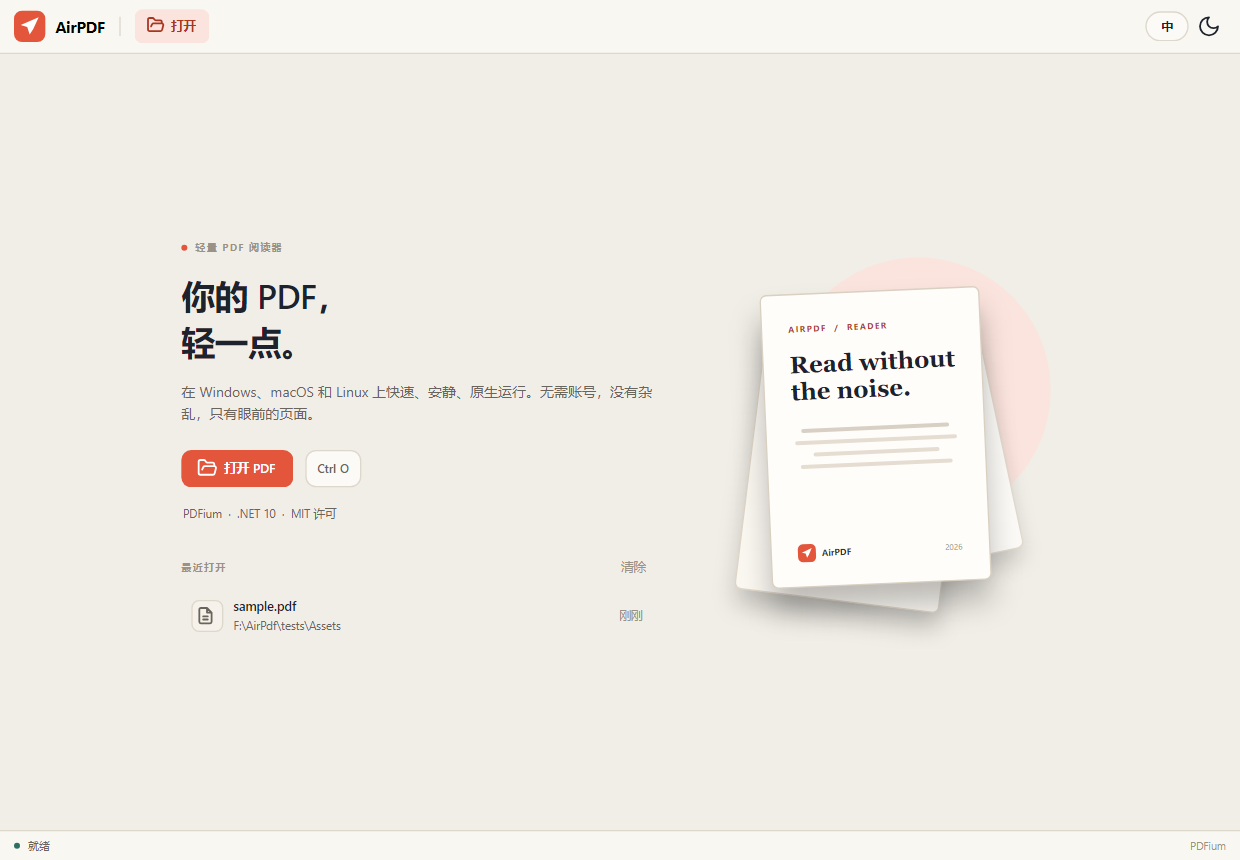
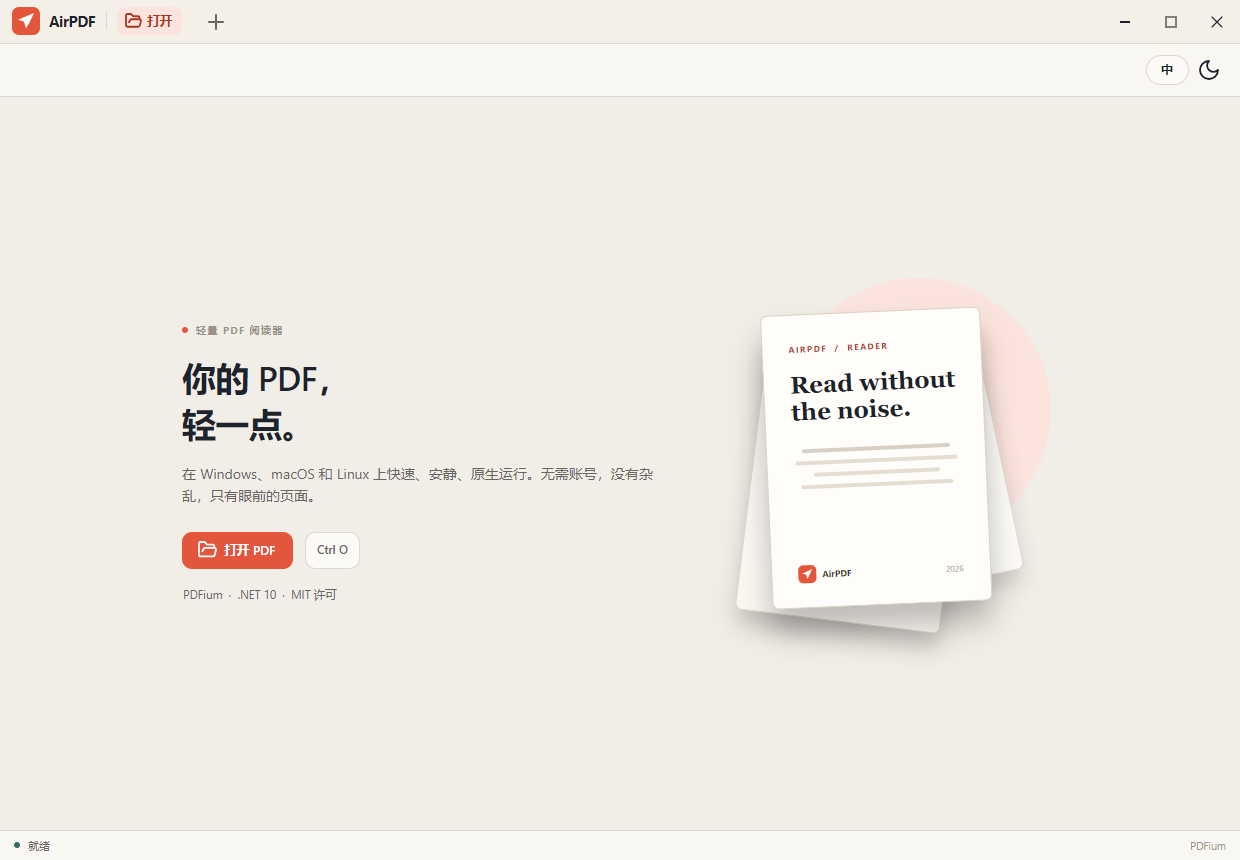
docs: refresh README for 0.6
- Document the unified Windows titlebar/tab bar, Snap Layouts, current tab semantics and overflow behavior.
- Clarify Store vs GitHub release availability and Velopack-only automatic updates.
- Update the test count, architecture notes, limitations and roadmap.
- Refresh the welcome, light/dark reading and search screenshots to the 0.6 UI.

diff --git a/README.md b/README.md
@@ -13,7 +13,9 @@
 </p>
 
 <p align="center">
-  <a href="https://apps.microsoft.com/detail/9pnsx3223qh1"><strong>Download for Windows from the Microsoft Store</strong></a>
+  <a href="https://apps.microsoft.com/detail/9pnsx3223qh1"><strong>Microsoft Store</strong></a>
+  &nbsp;·&nbsp;
+  <a href="https://github.com/RyzenWang/AirPDF/releases/latest">Latest releases</a>
 </p>
 
 <p align="center">
@@ -30,10 +32,12 @@ AirPDF opens PDFs quickly, renders them natively, and stays out of the way. It
 has no account, no cloud, no telemetry, and no web view. The whole reader is a
 small .NET application with a hand-built Avalonia interface.
 
-> **Status:** 0.6. Windows builds are in the
-> [Microsoft Store](https://apps.microsoft.com/detail/9pnsx3223qh1); macOS and Linux ship as
-> portable archives. Highlights, ink, notes, bookmarks, undo/redo, and saving are in; printing is
-> not. See the [roadmap](#roadmap).
+> **Status:** 0.6.0. Windows builds are available from the
+> [Microsoft Store](https://apps.microsoft.com/detail/9pnsx3223qh1) and
+> [GitHub Releases](https://github.com/RyzenWang/AirPDF/releases/latest); macOS and Linux
+> ship as portable archives. The Store listing can trail the GitHub release. Highlights,
+> ink, notes, bookmarks, tabs, a custom Windows titlebar, undo/redo, and saving are in;
+> printing is not. See the [roadmap](#roadmap).
 
 ---
 
@@ -45,12 +49,23 @@ small .NET application with a hand-built Avalonia interface.
 
 ![Search with page highlights](docs/search.png)
 
+The Windows screenshots show the 0.6 titlebar, where the document tabs and window controls
+share the top row. macOS and Linux keep their native window frame and the tab bar below it.
+
 ## Features
 
 - **Native PDFium rendering** at the exact display scale, with high-DPI support.
-- **Continuous, virtualized pages** — only pages near the viewport are decoded.
+- **Continuous, virtualized pages** — only pages near the viewport are decoded. Visible pages
+  render before thumbnails, bitmaps are bounded by count and memory, and closing a tab
+  releases its PDFium session off the UI thread.
+- **Windows titlebar, with the tabs in it** — on Windows the 44px workspace bar also carries
+  the window controls. Brand, Open, document tabs and minimize/maximize/close share one row;
+  the toolbar below is unchanged. Drag the empty area to move the window, double-click it to
+  maximize, and hover the maximize button for Windows 11 Snap Layouts. macOS and Linux keep
+  their native window frame.
 - **Thumbnail rail and document outline** for fast navigation.
-- **Full-text search** with page-grouped results and in-page match highlights.
+- **Full-text search** with page-grouped results, in-page match highlights, and progress
+  while a long document is scanned.
 - **Text selection and copy** — drag across words and pages, double-click a
   word, `Ctrl+A` selects the document (up to 1,000 pages), and `Ctrl+C` copies the result.
 - **Remembers your place** in every document, including the offset within the
@@ -75,9 +90,11 @@ small .NET application with a hand-built Avalonia interface.
   links open in your browser or mail client, and the cursor turns into a hand.
 - **Multiple windows** (`Ctrl+N`, or open the current file in a new window) sharing
   one settings store, theme, and language.
-- **Tabs** — `Ctrl+T` adds a document to the same window, and each tab keeps its own
-  zoom, scroll position, search results, and reading position. The first tab is **Home**,
-  so the strip exists from the start and going home never closes an open document.
+- **Tabs keep the whole document session** — `Ctrl+T` adds a document to the same window,
+  and each tab keeps its own zoom, scroll position, search results, and reading position.
+  The active tab is a warm pill, the strip scrolls when it runs out of room, and `+` follows
+  the last tab before pinning to the visible edge. The brand block is Home; there is no
+  separate visible Home tab.
 - **NativeAOT** — every release is compiled ahead of time, so the
   window appears in well under a second instead of several.
 - **Back navigation** with `Alt+Left` after any outline, thumbnail, search, or
@@ -88,10 +105,11 @@ small .NET application with a hand-built Avalonia interface.
 - **English by default, Simplified Chinese on demand** — switch live from the
   toolbar or with `Ctrl+Shift+L`.
 - **Drag and drop**, command-line opening, and a recent-files shelf.
-- **Automatic updates** in installed Windows and macOS builds, including
-  background download and a restart action.
+- **Automatic updates** in installed Velopack builds: they check GitHub, download in the
+  background, and offer a restart. Microsoft Store builds update through the Store; portable
+  and source builds do not self-update.
 - **Keyboard-first navigation** and a quiet, information-dense status bar.
-- **No network access on the reading path**; installed builds only contact
+- **No network access on the reading path**; installed Velopack builds only contact
   GitHub when checking for updates.
 
 ## Tech stack
@@ -100,6 +118,7 @@ small .NET application with a hand-built Avalonia interface.
 | --- | --- | --- |
 | Runtime | .NET 10 (LTS) | One modern runtime for Windows, macOS, and Linux. |
 | UI | Avalonia 11 | Native desktop windows from a single XAML codebase. |
+| Window chrome | Avalonia + `Win32Properties` | The Windows tab bar doubles as a managed titlebar; `HTMAXBUTTON` restores Windows 11 Snap Layouts. macOS and Linux keep native decorations. |
 | Rendering | PDFium | The same open-source engine used by browsers; one document handle stays open while reading. |
 | Raster transport | SkiaSharp | Fast, predictable pixel handling. |
 | Text layer | PDFium (`FPDFText_*`) | Characters arrive in reading order from the engine that renders the page, so search, selection, and rotated pages agree with what is drawn. PdfPig supplies metadata and the outline. |
@@ -109,7 +128,9 @@ small .NET application with a hand-built Avalonia interface.
 ## Requirements
 
 - [.NET 10 SDK](https://dotnet.microsoft.com/download) for building.
-- Windows 10/11, macOS 13+, or a modern Linux desktop (X11 or Wayland).
+- Windows 10/11, macOS 13+, or a modern Linux desktop (X11 or Wayland). Windows 11 is
+  required for Snap Layouts from the custom maximize button; Windows 10 uses the same
+  titlebar without the Snap flyout.
 - On Linux, the usual Avalonia desktop dependencies (X11/Wayland, fontconfig,
   and OpenGL or a software renderer) must be installed. Rendering uses the
   fontconfig-enabled SkiaSharp build, so system fonts are required. Install a CJK
@@ -146,10 +167,11 @@ dotnet build AirPdf.sln -c Release
 dotnet test AirPdf.sln -c Release
 ```
 
-The tests use `tests/Assets/sample.pdf`, an eight-page document that exercises
-Latin and Chinese text, mixed typography, and search geometry. `AirPdf.App.Tests`
-adds headless Avalonia coverage for opening, search, selection, zoom, language
-switching, and reading-position restore.
+The suite currently has **221 tests** (103 Core, 118 App). It uses
+`tests/Assets/sample.pdf`, an eight-page document that exercises Latin and Chinese text,
+mixed typography, and search geometry. `AirPdf.App.Tests` adds headless Avalonia coverage
+for the XAML and tab strip, opening, search, selection, zoom, language switching,
+reading-position restore, and the Windows Snap Layout hit-test marker.
 
 ## Publish
 
@@ -196,9 +218,9 @@ in the reader rather than in its distribution. The portable archives stay availa
 launch may still need *More info → Run anyway* on Windows, or right-click → *Open* on macOS.
 The installers return once a signing certificate is configured.
 
-Installed Windows and macOS builds check GitHub for a newer stable release,
-download it in the background, and show a **Restart to update** action. Portable
-and source builds do not self-update.
+Installed Velopack builds check GitHub for a newer stable release, download it in the
+background, and show a **Restart to update** action. Microsoft Store builds update through
+the Store. Portable and source builds do not self-update.
 
 The workflow also contains optional Windows code-signing and macOS
 codesign/notarization steps. See [docs/SIGNING.md](docs/SIGNING.md) for how to
@@ -278,6 +300,10 @@ the whole document, and showing the file in its folder.
   outside a small window around the current page.
 - The page list is a virtualizing `ListBox` with a custom template; the scroll
   position drives current-page detection and thumbnail selection.
+- On Windows, `SystemDecorations.BorderOnly` plus an extended client area replace
+  the non-client caption with the existing top bar. The maximize button is exposed
+  as `HTMAXBUTTON`, and a small `WM_NCMOUSEMOVE` hook keeps its hover state while
+  Windows 11 handles Snap Layouts. Other platforms leave window chrome alone.
 - Search reads the PDF text layer once, groups matches by page, and maps word
   bounding boxes back to normalized overlay rectangles.
 
@@ -302,8 +328,14 @@ docs/                   Screenshots and architecture notes
 - No form filling, printing, or PDF text editing.
 - Only `http`, `https`, and `mailto` link targets are followed; `Launch` and
   remote-`GoTo` actions are ignored so a document cannot start a program.
-- One document per tab, plus a Home tab that is always there. `Ctrl+W` closes the tab and
-  returns to Home; the Home tab itself cannot be closed.
+- Tabs are document sessions. The brand block returns to Home and is not a separate tab;
+  closing the last document tab returns to Home. `Ctrl+W` asks before discarding unsaved
+  markup.
+- The Windows custom titlebar does not yet expose the system menu (right-click or
+  `Alt+Space`), and its caption buttons do not dim when the window is inactive. Windows 11
+  Snap Layouts are supported; Windows 10 has the same custom buttons but no Snap flyout.
+- Custom titlebar integration is Windows-only. macOS and Linux keep their native
+  decorations and place the tab bar below them.
 - Release binaries are signed only when the maintainer signing secrets are
   configured. Unsigned Windows/macOS builds may show platform warnings.
 - Mobile and browser targets are out of scope for the desktop reader.
@@ -318,6 +350,8 @@ docs/                   Screenshots and architecture notes
 - [x] Ink and sticky-note annotations
 - [x] Multiple windows
 - [x] Tabs
+- [x] Unified tab/title bar with Windows 11 Snap Layouts
+- [ ] Windows titlebar system menu and inactive caption states
 - [ ] Additional UI languages (English and Simplified Chinese are available)
 - [ ] Configure production Windows signing and Apple notarization credentials
 - [x] NativeAOT (Windows, Linux, and macOS)
